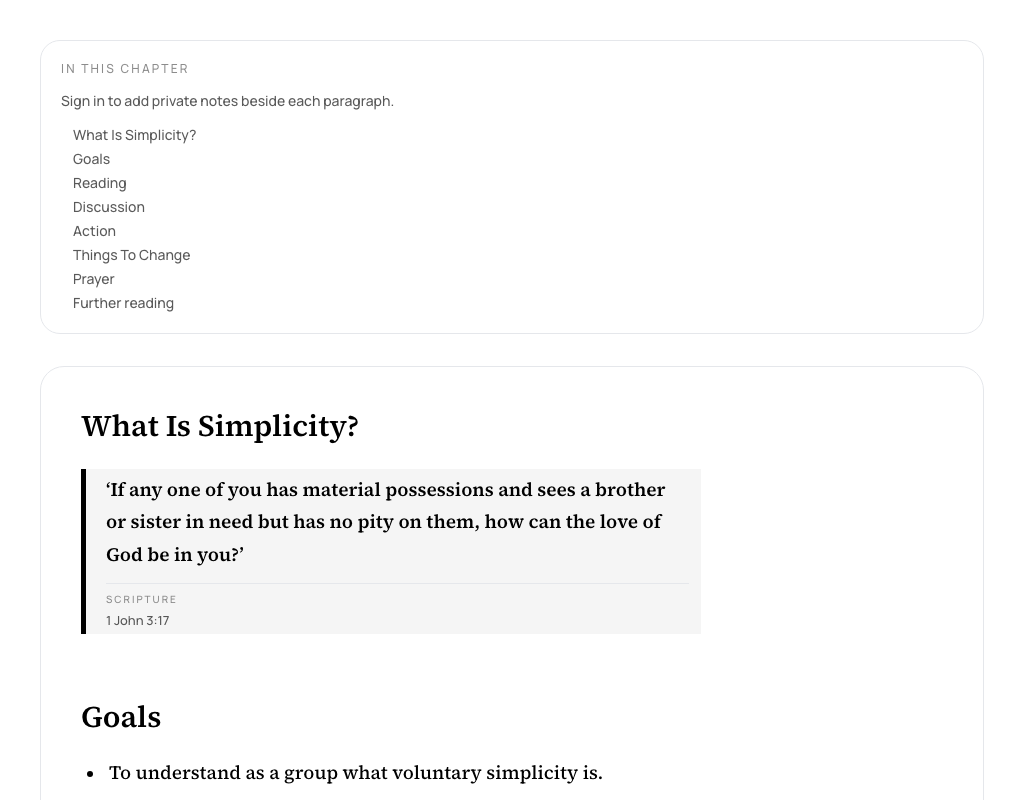
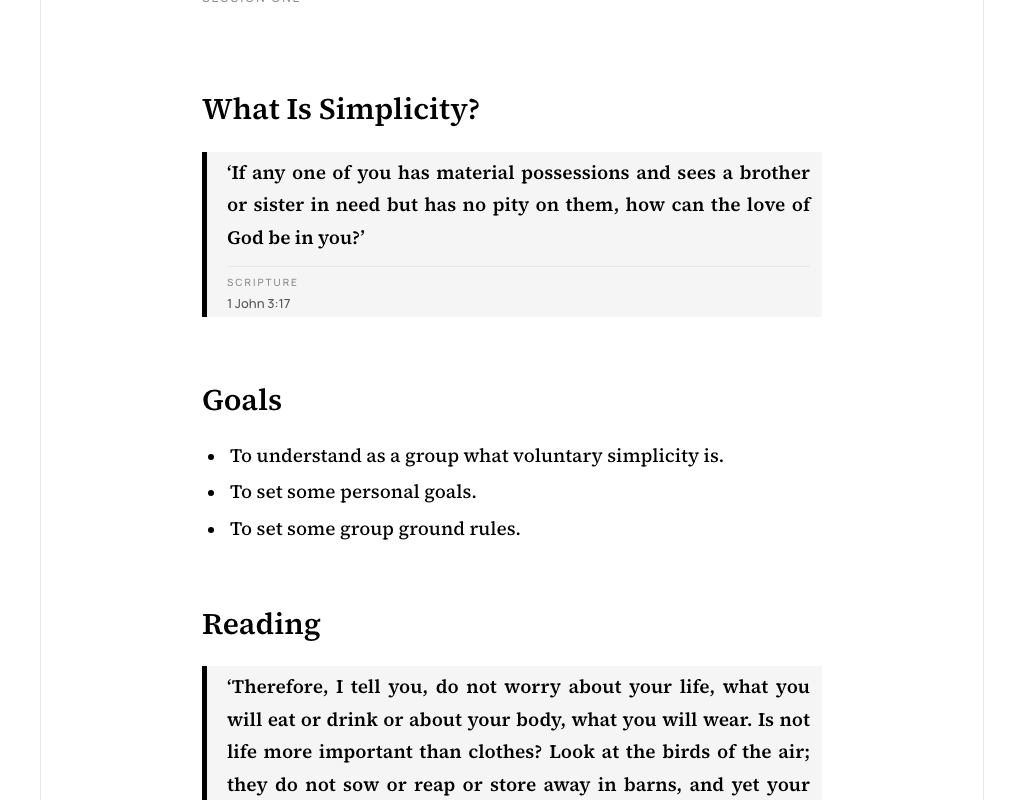
test(e2e): James Jul 2026 visual regression suite
Add Playwright browser and screenshot tests for landing, footer, nav,
search, scroll return, and content fixes; update existing e2e specs.

diff --git a/e2e/james-jul-2026-review.spec.ts b/e2e/james-jul-2026-review.spec.ts
@@ -1,0 +1,146 @@
+import { test, expect } from "@playwright/test";
+
+const currentYear = new Date().getFullYear();
+
+test.describe("James Jul 2026 review (visual + behaviour)", () => {
+  test("A1 landing shows title, subtitle, and author only", async ({ page }) => {
+    await page.goto("/");
+    await expect(
+      page.getByRole("heading", { name: "Simplicity Love & Justice", level: 1 })
+    ).toBeVisible();
+    await expect(page.getByText("A Discussion Course")).toBeVisible();
+    await expect(page.getByText("James Odgers", { exact: true })).toBeVisible();
+    await expect(page.getByRole("link", { name: "Sign in" })).toBeVisible();
+    await expect(page).toHaveScreenshot("landing-unauthenticated.png", {
+      maxDiffPixelRatio: 0.02,
+    });
+  });
+
+  test("A3 footer on landing only, not on course reader", async ({ page }) => {
+    await page.goto("/");
+    const footer = page.locator("footer");
+    await expect(footer).toBeVisible();
+    await expect(footer).toContainText(`Copyright © James Odgers ${currentYear}`);
+
+    await page.goto("/course/09-session-one");
+    await expect(page.locator("footer")).toHaveCount(0);
+    await expect(
+      page.getByText(`Copyright © James Odgers ${currentYear}`)
+    ).toHaveCount(0);
+  });
+
+  test("A4 footer includes NIV and Alpha publisher lines", async ({ page }) => {
+    await page.goto("/");
+    const footer = page.locator("footer");
+    await expect(footer).toContainText("New International Version");
+    await expect(footer).toContainText("Alpha International");
+    await expect(footer).not.toContainText("ISBN");
+  });
+
+  test("A6 session one shows Session One label", async ({ page }) => {
+    await page.goto("/course/09-session-one");
+    await expect(page.getByText("Session One", { exact: true }).first()).toBeVisible();
+  });
+
+  test("A7 foreword h1 aligns with body column", async ({ page }) => {
+    await page.goto("/course/06-foreword-summer-2004");
+    const h1 = page.locator("article h1").first();
+    const column = page.locator(".slj-reader-column").first();
+    await expect(h1).toBeVisible();
+    await expect(column).toBeVisible();
+
+    const h1Box = await h1.boundingBox();
+    const columnBox = await column.boundingBox();
+    expect(h1Box).not.toBeNull();
+    expect(columnBox).not.toBeNull();
+    expect(Math.abs(h1Box!.x - columnBox!.x)).toBeLessThan(12);
+
+    await expect(page.locator("article")).toHaveScreenshot("foreword-heading-alignment.png", {
+      maxDiffPixelRatio: 0.03,
+    });
+  });
+
+  test("A8–A10 introduction copy and structure", async ({ page }) => {
+    await page.goto("/course/07-introduction");
+    await expect(page.getByText(/We would love to hear from you/i)).toHaveCount(0);
+    await expect(page.getByText(/Please write to us/i)).toHaveCount(0);
+  });
+
+  test("A11 worksheet Open links load without application error", async ({
+    page,
+  }) => {
+    await page.goto("/course/09-session-one");
+    const openLinks = page.getByRole("link", { name: "Open" });
+    const count = await openLinks.count();
+    expect(count).toBeGreaterThan(0);
+
+    for (let i = 0; i < count; i++) {
+      const link = openLinks.nth(i);
+      const href = await link.getAttribute("href");
+      expect(href).toMatch(/^\/worksheets\/print\//);
+      const response = await page.request.get(href!);
+      expect(response.ok()).toBe(true);
+      await page.goto(href!);
+      await expect(page.getByText("Application error")).toHaveCount(0);
+      await expect(page.getByText("Worksheet could not load")).toHaveCount(0);
+    }
+  });
+
+  test("A12 footnote navigation shows return-to-reading control", async ({
+    page,
+  }) => {
+    await page.goto("/course/09-session-one");
+    const footnote = page.getByRole("link", { name: "[6]", exact: true }).first();
+    await footnote.scrollIntoViewIfNeeded();
+    await footnote.click();
+    await expect(page).toHaveURL(/\/course\/29-references#note-6/);
+
+    await expect(
+      page.getByRole("link", { name: /Return to where you were reading/i })
+    ).toBeVisible();
+  });
+
+  test("B5 session one has no televisio typo", async ({ page }) => {
+    await page.goto("/course/09-session-one");
+    await expect(page.getByText(/\btelevisio\b/)).toHaveCount(0);
+    await expect(page.getByText("television")).toBeVisible();
+  });
+
+  test("B9 sidebar lists chapters without Contents link", async ({ page }) => {
+    await page.goto("/course/09-session-one");
+    await expect(page.getByRole("link", { name: "Contents" })).toHaveCount(0);
+    await expect(page.getByRole("button", { name: /Chapters/i })).toBeVisible();
+    await expect(
+      page.getByRole("navigation").getByRole("link", { name: /Session One/i })
+    ).toBeVisible();
+    await expect(page.getByRole("searchbox", { name: "Search course" })).toBeVisible();
+  });
+
+  test("B-EXTRA search finds phrase and navigates to chapter", async ({
+    page,
+  }) => {
+    await page.goto("/course/09-session-one");
+    const search = page.getByRole("searchbox", { name: "Search course" });
+    await search.fill("Micah");
+    const result = page.getByRole("link", { name: /Micah/i }).first();
+    await expect(result).toBeVisible();
+    await result.click();
+    await expect(page).toHaveURL(/\/course\/07-introduction#/);
+  });
+
+  test("C references note 2 is Making Christ Known", async ({ page }) => {
+    await page.goto("/course/29-references#note-2");
+    await expect(page.locator("#note-2")).toBeVisible();
+    await expect(page.locator("article")).toContainText("Making Christ Known");
+  });
+
+  test("session one reader layout snapshot", async ({ page }) => {
+    await page.goto("/course/09-session-one");
+    await expect(
+      page.getByRole("heading", { name: "What Is Simplicity?" })
+    ).toBeVisible();
+    await expect(page.locator("main")).toHaveScreenshot("session-one-reader.png", {
+      maxDiffPixelRatio: 0.02,
+    });
+  });
+});

diff --git a/scripts/audit-footnotes.ts b/scripts/audit-footnotes.ts
@@ -1,0 +1,89 @@
+/**
+ * Compare in-text [n] markers in course markdown against ## [n] headings
+ * in 29-references.md. Reports orphans and missing back-matter entries.
+ *
+ * Run: pnpm tsx scripts/audit-footnotes.ts
+ */
+
+import * as fs from "fs";
+import * as path from "path";
+
+const COURSE_DIR = path.join(process.cwd(), "content", "course");
+const REFERENCES_FILE = path.join(COURSE_DIR, "29-references.md");
+
+const IN_TEXT_MARKER = /\[(\d{1,2})\]/g;
+const BACK_MATTER_HEADING = /^## \[(\d{1,2})\]\s*$/;
+
+function collectInTextMarkers(filePath: string): Map<number, string[]> {
+  const hits = new Map<number, string[]>();
+  const fileName = path.basename(filePath);
+  if (fileName === "29-references.md") return hits;
+
+  const text = fs.readFileSync(filePath, "utf-8");
+  for (const match of text.matchAll(IN_TEXT_MARKER)) {
+    const n = Number(match[1]);
+    const list = hits.get(n) ?? [];
+    list.push(fileName);
+    hits.set(n, list);
+  }
+  return hits;
+}
+
+function collectBackMatterHeadings(): Set<number> {
+  const text = fs.readFileSync(REFERENCES_FILE, "utf-8");
+  const headings = new Set<number>();
+  for (const line of text.split(/\r?\n/)) {
+    const m = line.match(BACK_MATTER_HEADING);
+    if (m) headings.add(Number(m[1]));
+  }
+  return headings;
+}
+
+function main() {
+  const files = fs
+    .readdirSync(COURSE_DIR)
+    .filter((f) => f.endsWith(".md"))
+    .sort();
+
+  const inText = new Map<number, string[]>();
+  for (const file of files) {
+    const fileHits = collectInTextMarkers(path.join(COURSE_DIR, file));
+    for (const [n, sources] of fileHits) {
+      const merged = inText.get(n) ?? [];
+      merged.push(...sources);
+      inText.set(n, merged);
+    }
+  }
+
+  const backMatter = collectBackMatterHeadings();
+  const referenced = [...inText.keys()].sort((a, b) => a - b);
+  const missingBackMatter = referenced.filter((n) => !backMatter.has(n));
+  const unusedBackMatter = [...backMatter]
+    .filter((n) => !inText.has(n))
+    .sort((a, b) => a - b);
+
+  console.log(`In-text markers: ${referenced.length} unique numbers`);
+  console.log(`Back-matter headings: ${backMatter.size}`);
+
+  if (missingBackMatter.length > 0) {
+    console.warn("\nReferenced in course but missing ## [n] in references:");
+    for (const n of missingBackMatter) {
+      console.warn(`  [${n}] in ${[...new Set(inText.get(n) ?? [])].join(", ")}`);
+    }
+  }
+
+  if (unusedBackMatter.length > 0) {
+    console.warn("\nBack-matter entries with no in-text [n] marker:");
+    for (const n of unusedBackMatter) {
+      console.warn(`  [${n}]`);
+    }
+  }
+
+  if (missingBackMatter.length === 0 && unusedBackMatter.length === 0) {
+    console.log("Footnote audit passed.");
+  } else {
+    process.exitCode = 1;
+  }
+}
+
+main();

diff --git a/e2e/site-footer-layout.spec.ts b/e2e/site-footer-layout.spec.ts
@@ -1,7 +1,19 @@
 import { test, expect } from "@playwright/test";
 
+const currentYear = new Date().getFullYear();
+
 test.describe("Site footer layout", () => {
-  test("copyright footer sits below chapter content, not over Goals", async ({
+  test("copyright footer appears on landing page only", async ({ page }) => {
+    await page.goto("/");
+    const footer = page.locator("footer");
+    await expect(footer).toBeVisible();
+    await expect(footer.getByText(`Copyright © James Odgers ${currentYear}`)).toBeVisible();
+
+    await page.goto("/course/09-session-one");
+    await expect(page.locator("footer")).toHaveCount(0);
+  });
+
+  test("course reader has no copyright in article or main chrome", async ({
     page,
   }) => {
     await page.goto("/course/09-session-one");
@@ -11,68 +23,25 @@ test.describe("Site footer layout", () => {
 
     const goals = page.getByRole("heading", { name: "Goals", exact: true });
     const reading = page.getByRole("heading", { name: "Reading", exact: true });
-    const footer = page.locator("footer");
 
     await expect(goals).toBeVisible();
     await expect(reading).toBeVisible();
-    await expect(footer).toBeVisible();
-    await expect(footer.getByText("Copyright © James Odgers 2004")).toBeVisible();
 
-    // Copyright belongs in the site footer only, not inside the reader article.
     await expect(page.locator("article")).not.toContainText(
-      "Copyright © James Odgers 2004"
+      `Copyright © James Odgers ${currentYear}`
     );
-
-    const goalsBox = await goals.boundingBox();
-    const readingBox = await reading.boundingBox();
-    const footerBox = await footer.boundingBox();
-
-    expect(goalsBox).not.toBeNull();
-    expect(readingBox).not.toBeNull();
-    expect(footerBox).not.toBeNull();
-
-    // Footer must sit entirely below early chapter headings (regression: flex-1 mid-page footer).
-    expect(footerBox!.y).toBeGreaterThan(goalsBox!.y + goalsBox!.height - 2);
-    expect(footerBox!.y).toBeGreaterThan(readingBox!.y + readingBox!.height - 2);
-
-    // Footer follows article in document order.
-    const articleBottom = await page.locator("article").evaluate((el) => {
-      const rect = el.getBoundingClientRect();
-      return rect.top + window.scrollY + rect.height;
-    });
-    const footerTop = await footer.evaluate((el) => {
-      const rect = el.getBoundingClientRect();
-      return rect.top + window.scrollY;
-    });
-    expect(footerTop).toBeGreaterThanOrEqual(articleBottom - 4);
+    await expect(
+      page.getByText(`Copyright © James Odgers ${currentYear}`)
+    ).toHaveCount(0);
   });
 
-  test("goals section has no copyright text in viewport", async ({ page }) => {
+  test("goals section viewport without footer overlap", async ({ page }) => {
     await page.goto("/course/09-session-one");
     const goals = page.getByRole("heading", { name: "Goals", exact: true });
     await goals.scrollIntoViewIfNeeded();
     await expect(goals).toBeVisible();
 
     const viewport = page.locator("main");
-    const goalsBox = await goals.boundingBox();
-    expect(goalsBox).not.toBeNull();
-
-    // Copyright line must not intersect the Goals heading band (overlap regression).
-    const copyrightBoxes = await page
-      .getByText("Copyright © James Odgers 2004")
-      .evaluateAll((nodes) =>
-        nodes.map((node) => {
-          const rect = node.getBoundingClientRect();
-          return { top: rect.top, bottom: rect.bottom };
-        })
-      );
-
-    for (const box of copyrightBoxes) {
-      const overlapsGoals =
-        box.bottom > goalsBox!.y && box.top < goalsBox!.y + goalsBox!.height;
-      expect(overlapsGoals).toBe(false);
-    }
-
     await expect(viewport).toHaveScreenshot("session-one-goals-viewport.png", {
       maxDiffPixelRatio: 0.02,
     });

diff --git a/e2e/james-feedback-visual.spec.ts b/e2e/james-feedback-visual.spec.ts
@@ -75,8 +75,11 @@ test.describe("James feedback (layout + content)", () => {
   test("things to change print view renders", async ({ page }) => {
     await page.goto("/worksheets/print/things-to-change");
     await expect(
-      page.getByRole("heading", { name: "Things to Change" }).first()
+      page.getByRole("heading", {
+        name: /Steps I can take to move toward simplicity/i,
+      })
     ).toBeVisible();
+    await expect(page.getByRole("columnheader", { name: "THINGS TO CHANGE" })).toBeVisible();
   });
 
   test("notes panel aside is not used on chapter reader", async ({ page }) => {

diff --git a/__tests__/worksheet-return.test.ts b/__tests__/worksheet-return.test.ts
@@ -1,7 +1,7 @@
 import {
   isSafeCourseReturnPath,
   worksheetHrefWithReturn,
-} from "@/components/ReaderLocationContext";
+} from "@/lib/worksheet-return";
 
 describe("worksheet return navigation", () => {
   it("accepts course paths with block anchors", () => {

diff --git a/docs/James-Next-Meeting-Prep.md b/docs/James-Next-Meeting-Prep.md
@@ -1,0 +1,30 @@
+# James Odgers — next meeting prep
+
+Items deferred from the Jul 2026 review implementation. Bring these to the next correspondence or call with James.
+
+## References and content
+
+- **[56] Stuart Murray** — confirm correct citation text and whether it should appear in the course body or references only.
+- **Print edition goals (D1)** — James mentioned possible print-oriented changes; digital V1 scope unchanged unless he confirms otherwise.
+- **James sanity check (D4)** — ask James to read through Sessions 1, 5, and 9 on staging after deploy and flag any remaining scripture styling or footnote mismatches.
+
+## Already implemented (Jul 2026)
+
+- Landing branding, login-only footer, dynamic copyright (Odgers, NIV, Alpha).
+- Sidebar chapter list + book-wide search (replaces Contents).
+- Scroll return when following footnotes to references.
+- Editorial fixes B1–B22 in course markdown.
+- `29-references.md` reconciled against Word NOTES 1–65.
+
+## How to verify before the meeting
+
+```bash
+pnpm generate-manifest
+pnpm lint && pnpm typecheck && pnpm test
+PLAYWRIGHT_PORT=3010 pnpm test:e2e
+pnpm tsx scripts/audit-footnotes.ts
+```
+
+## Rollback
+
+Changes are split into scoped commits (see plan). Revert a section with `git revert <commit-hash>` if James disagrees with a particular batch.